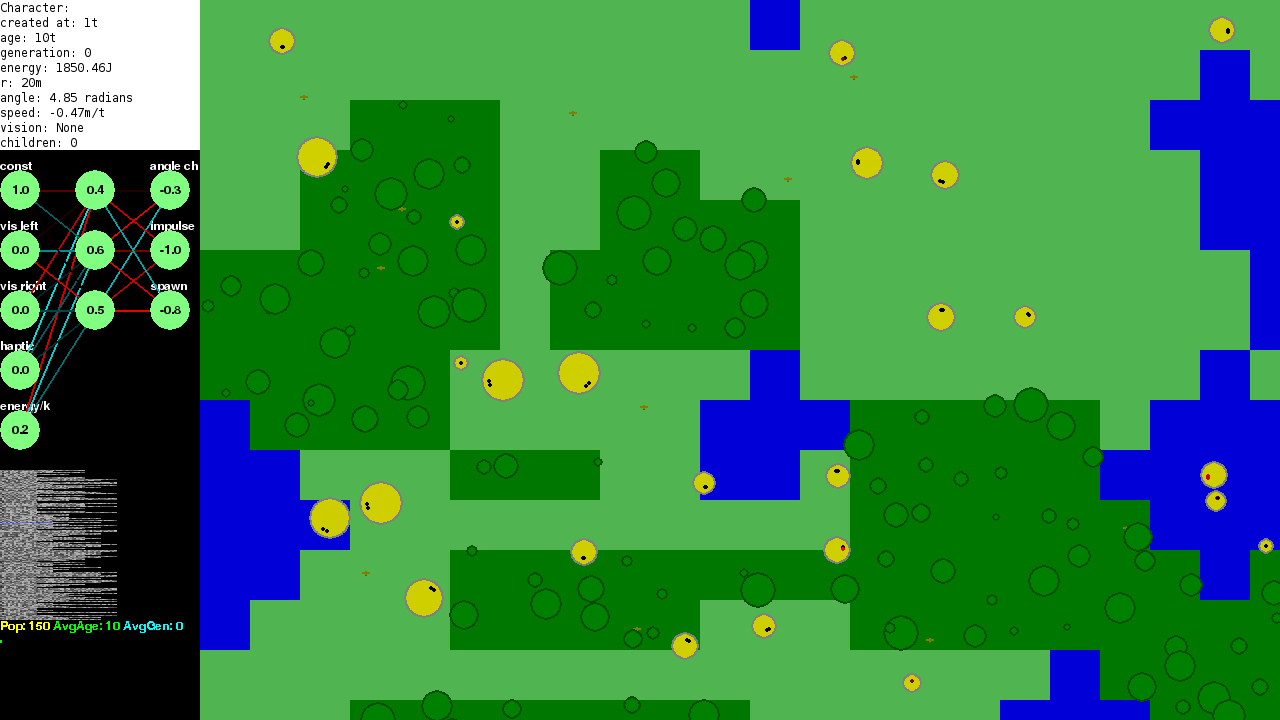
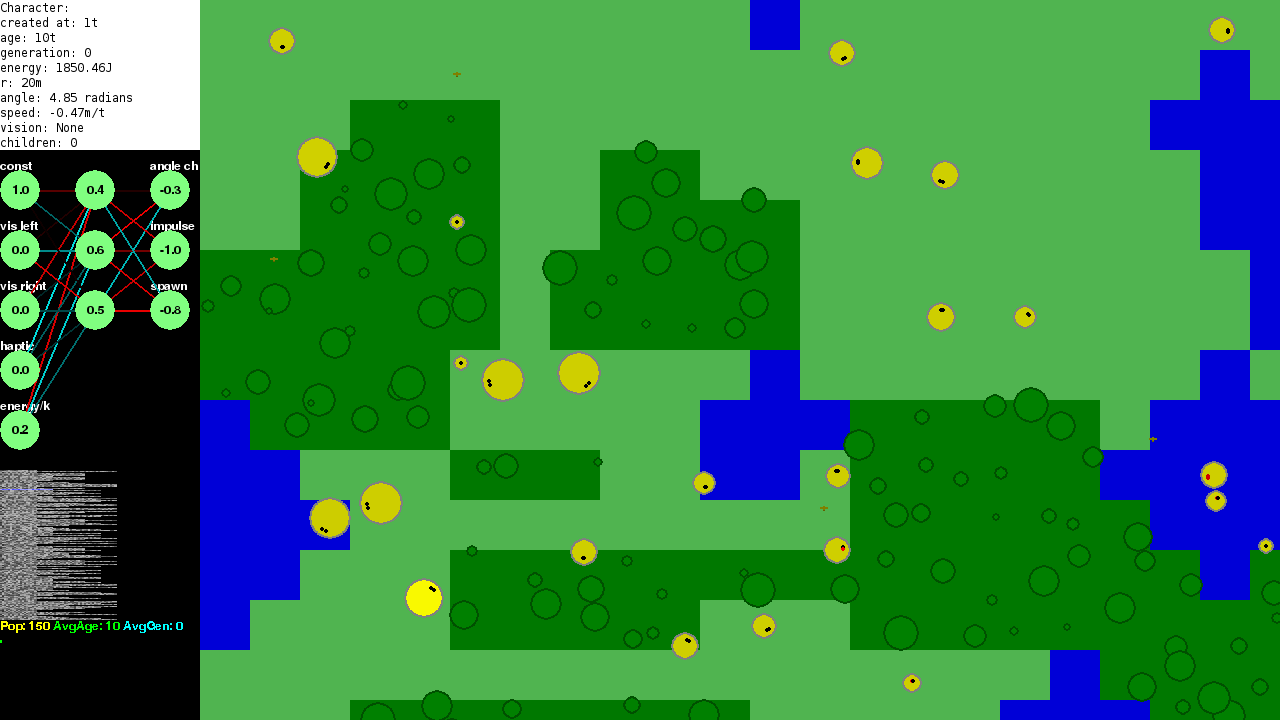
Shrink gene view down to 150 pixels to accomodate more input neurons

Changed region(s): [[0.0, 0.6417, 0.0938, 0.8861], [0.3125, 0.7944, 0.3438, 0.8556]]

diff --git a/novel-evolve/popview.py b/novel-evolve/popview.py
@@ -15,7 +15,7 @@ class GenePopView(viewport.Viewport):
             parent, viewport_rect, viewport_rect.w, 200)
         self.font = pygame.font.Font(None, 18)
         self.xwidth = 2
-        self.ywidth = 2
+        self.ywidth = 1
         self.sorted_chars = []
 
     def draw(self):
@@ -107,7 +107,7 @@ class TimePopView(viewport.Viewport):
                 ('AvgAge', self.avgage_plots, avgage, (0, 255, 0)),
                 ('AvgGen', self.avggen_plots, avggen, (0, 255, 255))):
                 plots.append(latest)
-                if len(plots) > 100:
+                if len(plots) > 150:
                     plots.popleft()
                 width = 2
                 max_ = max(plots) or 1

diff --git a/novel-evolve/window.py b/novel-evolve/window.py
@@ -26,13 +26,13 @@ class Window(object):
         self.infopane = infopane.InfoPane(self, Rect(0, 0, 200, 150))
         self.allsprites.add(self.infopane)
 
-        brainview_height = screen_h - 150 - 200 - 100
+        brainview_height = screen_h - 150 - 150 - 100
         self.brainview = brainview.BrainView(
             self, Rect(0, 150, 200, brainview_height))
         self.allsprites.add(self.brainview)
 
         self.genesview = popview.GenePopView(
-            self, Rect(0, screen_h - 300, 200, 200))
+            self, Rect(0, screen_h - 250, 200, 150))
         self.allsprites.add(self.genesview)
 
         self.popview = popview.TimePopView(
